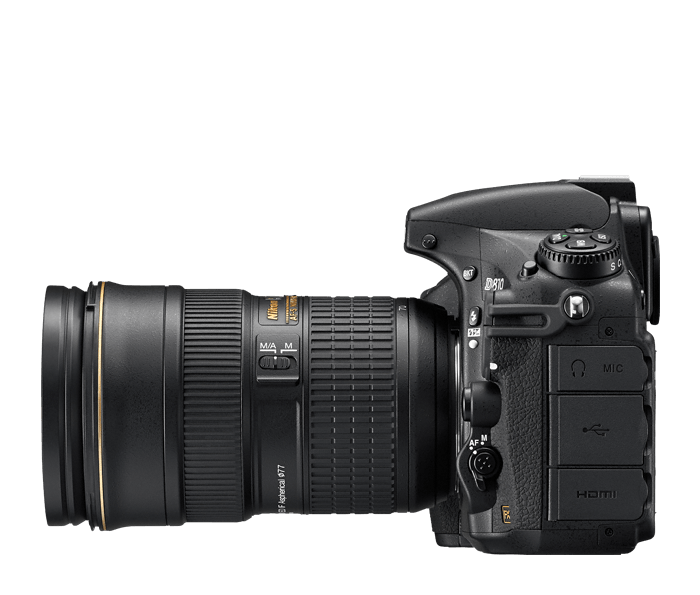
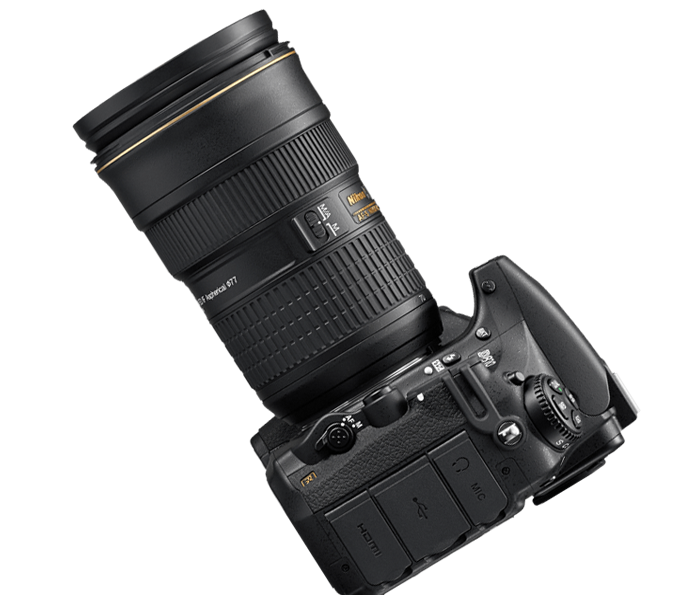
great chnages

diff --git a/index.html b/index.html
@@ -13,6 +13,8 @@
                             <link rel="stylesheet" href="css/aos.css">
                             <link href="https://fonts.googleapis.com/css2?family=Aladin&display=swap" rel="stylesheet">
                             <link href="https://fonts.googleapis.com/css2?family=Patrick+Hand&display=swap" rel="stylesheet">
+                            <link href="https://fonts.googleapis.com/css2?family=Bad+Script&display=swap" rel="stylesheet">
+                            <link href="https://fonts.googleapis.com/css2?family=Dancing+Script:wght@600&display=swap" rel="stylesheet">
                             <link rel="stylesheet" href="https://stackpath.bootstrapcdn.com/font-awesome/4.7.0/css/font-awesome.min.css" integrity="sha384-wvfXpqpZZVQGK6TAh5PVlGOfQNHSoD2xbE+QkPxCAFlNEevoEH3Sl0sibVcOQVnN" crossorigin="anonymous">
                             <link rel="stylesheet" href="css/slick-theme.css">
                             <link rel="stylesheet" href="css/slick.css">
@@ -28,7 +30,7 @@
 
         <nav class="navbar navbar-default navbar-expand-sm navbar-expand-md navbar-expand-lg navbar-expand-xl navbar-expand-xs fixed-top">
 
-        <a class="navbar-brand" href="#"><img src="img/gorgeouslogo.png" height="100px" width="220px" id="logo"/></a>
+        <a class="navbar-brand" href="#">Gorgeous.in<img src="img/favicon.png" height="50px" width="80px"/></a>
 
                 <button class="navbar-toggler" type="button" data-toggle="collapse" data-target="#collapsibleNavbar">
                   <i class="fa fa-bars" aria-hidden="true" style="color:#FF007F;"></i>
@@ -81,7 +83,9 @@
                                                                             Select the best fashion
                                                                             according to your
                                                                             choice.</p>
+
                                           <a href="#" class="btn btn-primary">more</a>
+
                                       </div>
                              </div>
 
@@ -210,7 +214,7 @@
                         <div class="mb-3 pics animation all 2" data-aos="zoom-in">
                                    <img class="img-fluid galimg" src="img/lgb1.jpg" alt="Card image cap">
                        </div>
-<img src="img/spotlight.png" alt="" class="img-fluid" id="spotlight"/>
+<img src="img/spotlight.png" alt="" class="img-fluid" id="spotlight" data-aos="slide-up" data-aos-duration="2000"/>
                       <div class="mb-3 pics animation all 1" data-aos="zoom-in">
                                   <img class="img-fluid galimg" src="img/lgb2.jpg" alt="Card image cap">
                       </div>
@@ -230,7 +234,7 @@
                      <div class="mb-3 pics animation all 1" data-aos="zoom-in">
                                  <img class="img-fluid galimg" src="img/lgb6.jpg" alt="Card image cap">
                      </div>
-                     <img src="img/dslr.png" class="img-fluid dslr" id="dslr"/>
+                     <img src="img/dslr.png" class="img-fluid dslr"  data-aos="slide-left" data-aos-duration="2000" id="dslr"/>
               </div>
         </div>
 </div>
@@ -468,7 +472,7 @@
 
 <!-- Social media icons starts from here -->
 <div class="container social">
-            <p class="social-p">Connect With Us:</p>
+            <p class="social-p">Connect with us:</p>
           <div class="row" data-aos="zoom-in" data-aos-duration="1000">
 
                         <div class="col-md-3 col-lg-3 col-xl-3 col-sm-12 sdiv"><i class="fa fa-whatsapp fa-4x" aria-hidden="true" style="color:#4FCE5D"></i></i><p>+91-9876543210</p></div>
@@ -482,10 +486,32 @@
 <br>
 <br>
 <br>
+<div class="container mt-4">
+  <div class="row">
+      <div class="col-sm-12 col-md-5 col-lg-5 col-xl-5 text-center" data-aos="zoom-in" data-aos-duration="1500" id="address-div">
+             <i class="fa fa-mobile fa-3x" aria-hidden="true" style="color:black;"></i><h5>Manager: +91-9876543210</h5>
+             <i class="fa fa-mobile fa-3x" aria-hidden="true" style="color:black;"></i><h5>Franchise: +91-9876543210</h5>
+             <i class="fa fa-envelope-o fa-2x" aria-hidden="true" style="color:black;"></i><h5>info@gorgeous_salons.com</h5>
+      </div>
+      <div class="col-sm-12 col-md-7 col-lg-7 col-xl-7" id="address-div">
+            <div class="newsletter-div">
+                 <input type="email" name="email" placeholder="subscribe to our news letter" id="newsletter" data-aos="slide-left" data-aos-duration="1500"/>
+
+                   <button type="button" name="button" class="sbs-btn" data-aos="slide-left" data-aos-anchor-placement="top" data-aos-duration="2000">Subscribe</button>
+
+            </div>
+      </div>
+  </div>
+</div>
+
+
 <br>
 <br>
 <br>
 <br>
+
+
+
 <!--footer starts from here-->
 
 <div class="container-fluid text-center pb-3">
@@ -493,6 +519,7 @@
 <i class="fa fa-heart fa-2x" aria-hidden="true" style="color:#FF007F;" data-aos="zoom-in" data-aos-anchor-placement="top" data-aos-duration="1500"></i>&nbsp
 <p class="text-center footer" data-aos="slide-up" data-aos-anchor-placement="top" data-aos-duration="1500"><span style="font-size:12px;">-Navjot Sohal</span></p></div>
 </div>
+
 
 
 

diff --git a/css/ccss.css b/css/ccss.css
@@ -62,9 +62,14 @@ margin:15px 0 15px;
 }
 
 .dslr{
-transform: rotate(50deg);
+transform: rotate(70deg);
 }
 
+.navbar-brand{
+  font-family: 'Dancing Script', cursive;
+  font-size:40px;
+  color:#24dced;
+}
 
 
 .container-fluid .row .card{
@@ -167,6 +172,50 @@ background:#FF007F;
 display: flex;
 }
 
+.newsletter-div{
+position: relative;
+background:#EBEFF3;
+height:100%;
+width: 100%;
+display: flex;
+flex-direction: column;
+justify-content:center;
+
+}
+
+#newsletter{
+  top:40%;
+  width:80%;
+  outline:none;
+  margin: 0px auto;
+  height:45px;
+  background:white;
+  border-radius:5px;
+  border:2px solid black;
+  text-align: center;
+  font-family: 'Bad Script', cursive;
+  font-size:18px;
+  font-weight:bold;
+
+}
+
+.sbs-btn{
+border:none;
+outline:none;
+background:#89D400;
+color:white;
+border-radius:10px;
+height:41px;
+width:100px;
+align-self:center;
+margin-top:10px;
+}
+
+.sbs-btn:hover{
+text-decoration: underline;
+}
+
+
 .btnbook{
 border:none;
 color:white;
@@ -176,18 +225,19 @@ border-radius:10px;
 margin: 0px auto
 }
 
-select{
-text-align:center;
+h5{
+margin-bottom:30px;
+padding-bottom:15px;
+border-bottom: 3px solid black;
 }
 
-
 .btn.btn-primary{
-
 font-family: 'Itim', cursive;
+border:1px solid white;
 }
 
 .btn.btn-primary:hover{
-border:2px solid white;
+border:3px solid white;
 font-family: 'Itim', cursive;
 }
 
@@ -256,7 +306,7 @@ box-shadow: 10px 10px 102px -20px rgba(0,0,0,0.75);
 .compliments-card{
 text-align:center;
 margin:0px 15px;
-border:2px solid #24dced ;
+border:2px solid gray ;
 }
 
 .compli-imgs{
@@ -334,5 +384,11 @@ overflow-x: hidden !important;
 @media (max-width: 650px){
 #logo{
     height:70px;
+  }
+}
+
+@media (max-width:650px){
+#address-div{margin-top:60px;
+
   }
 }
